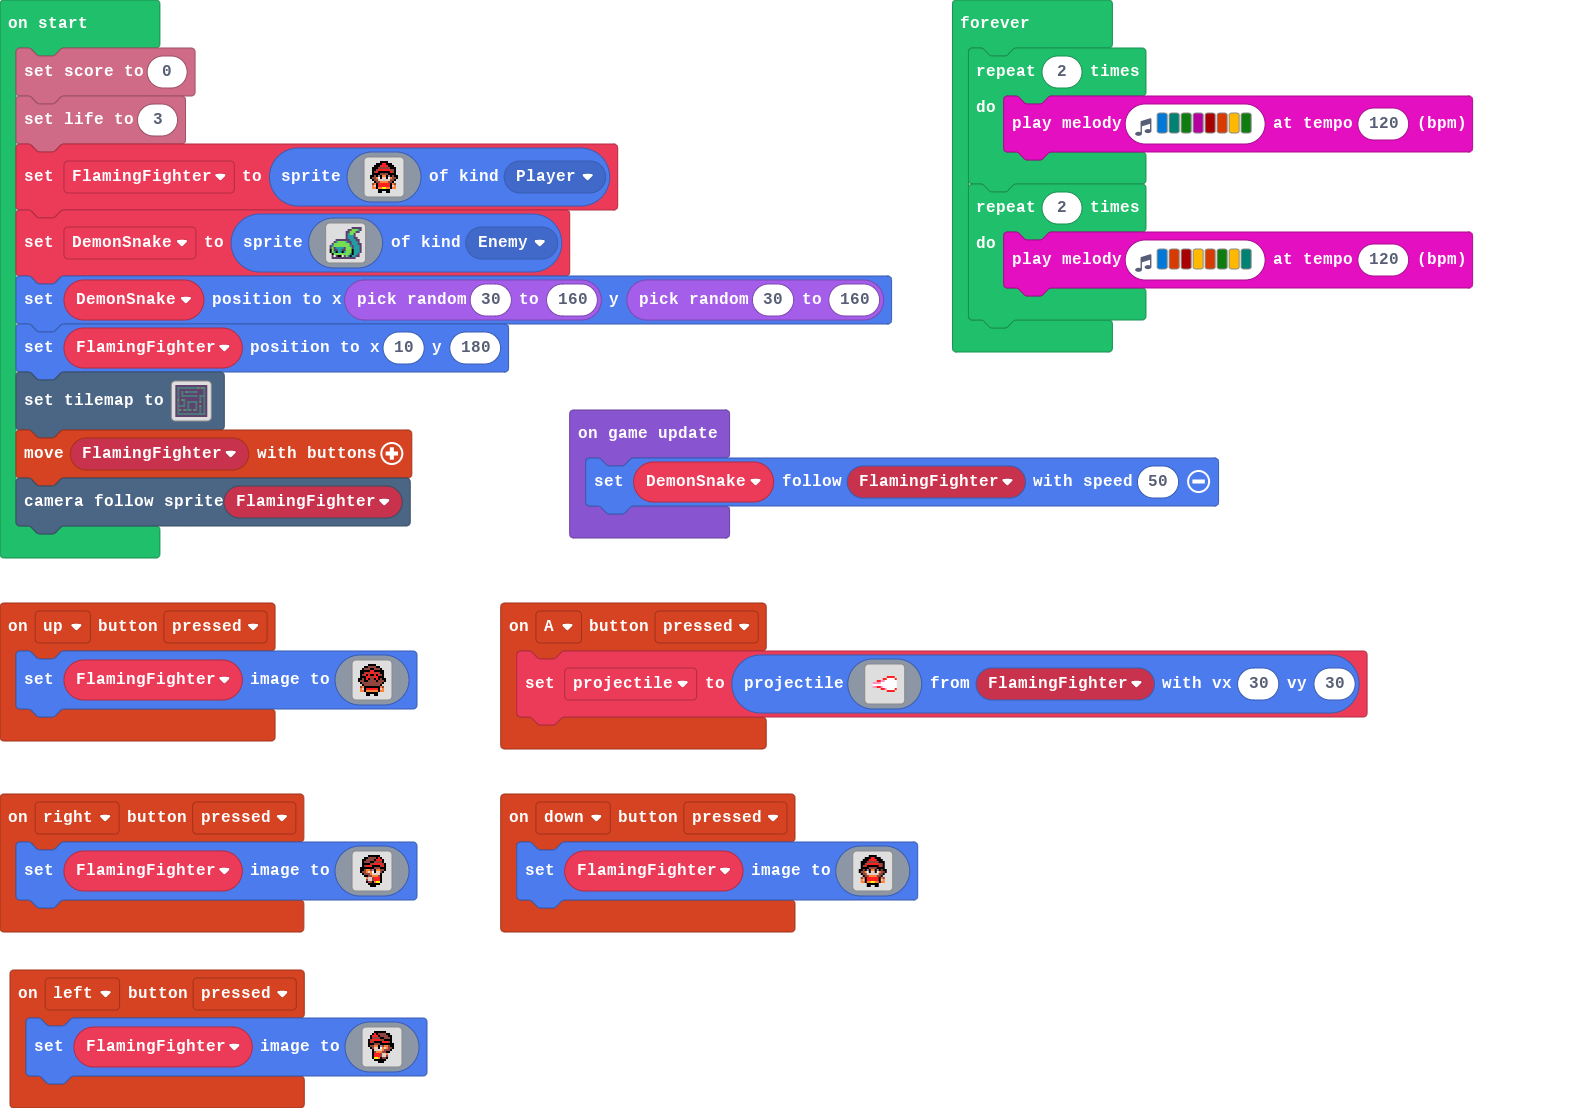
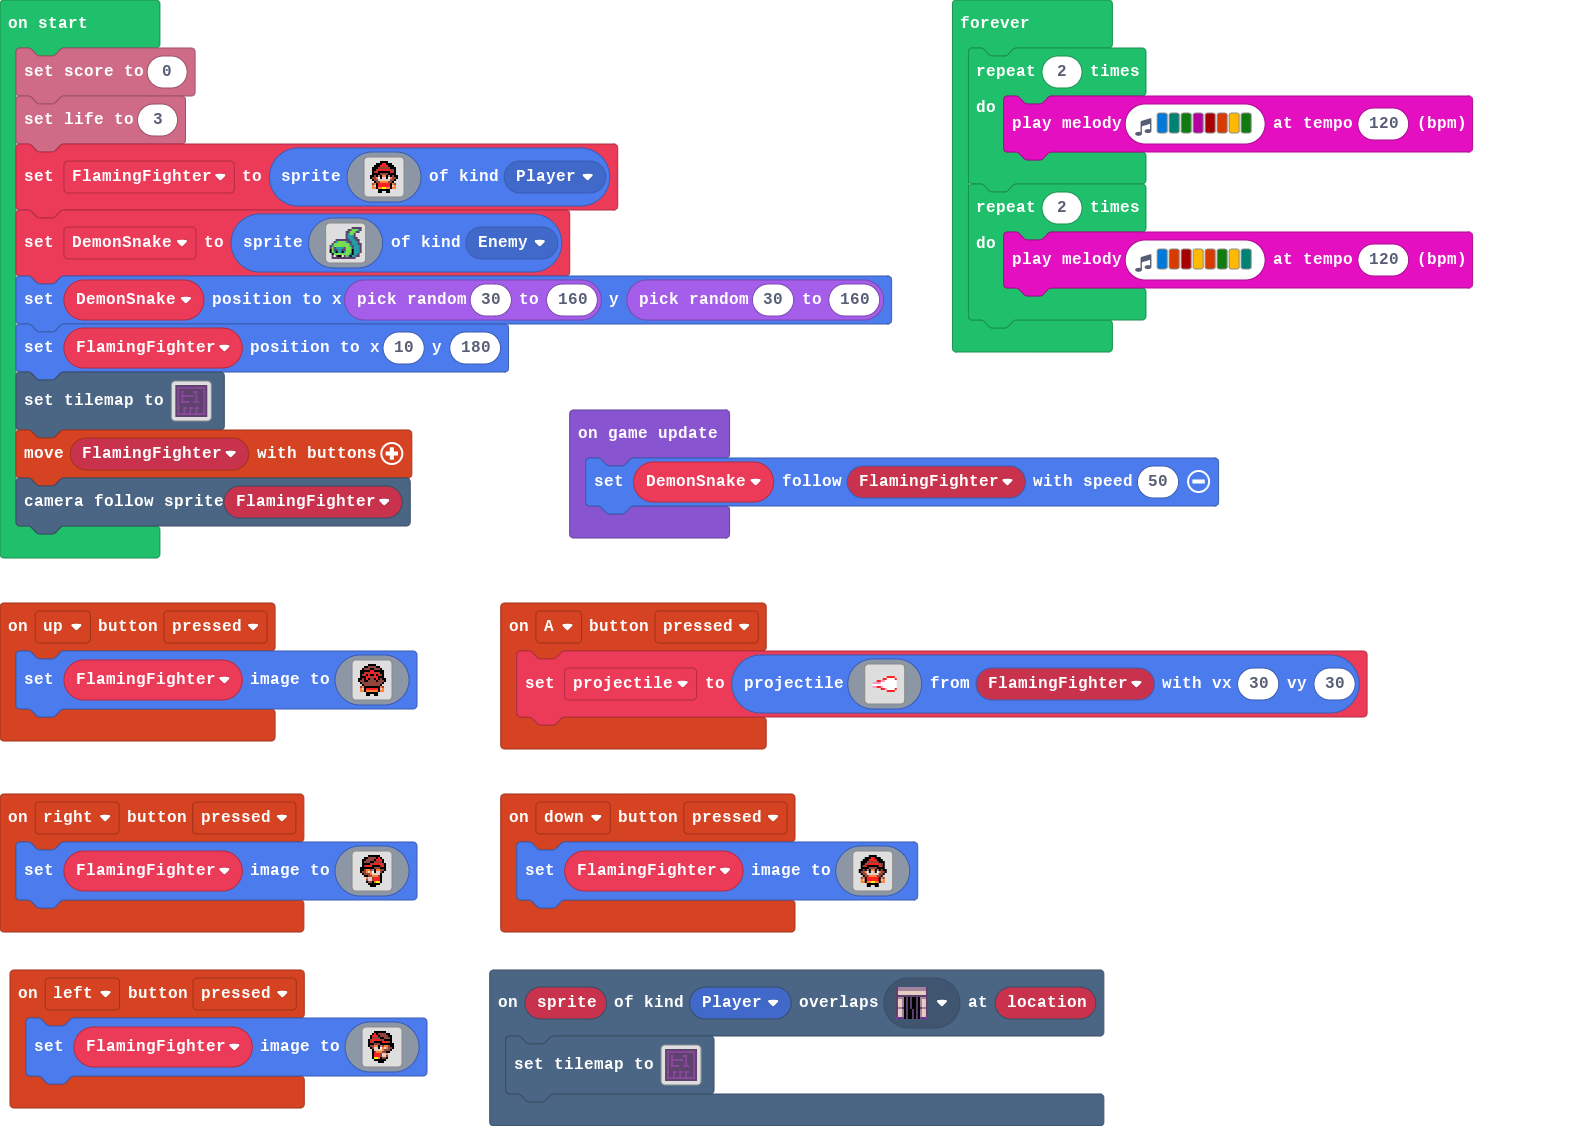
Update main.blocks, main.ts, tilemap.g.jres, tilemap.g.ts

diff --git a/tilemap.g.ts b/tilemap.g.ts
@@ -5,25 +5,44 @@ namespace myTiles {
 
     helpers._registerFactory("tilemap", function(name: string) {
         switch(helpers.stringTrim(name)) {
-            case "Level 1":
[1 lines of base64/hex data omitted]
+            case "level2":
+            case "level2":return tiles.createTilemap(hex`1000100000000000000000000000000000000000000000000000000000000000000000000000000000000000000000000000000000000000000000000000000000000000000000000000000000000000000000000000000000000000000000000000000000000000000000000000000000000000000000000000000000000000000000000000000000000000000000000000000000000000000000000000000000000000000000000000000000000000000000000000000000000000000000000000000000000000000000000000000000000000000000000000000000000000000000000000000000000000000000000000000000000000000000000000000000000000`, img`
+. . . . . . . . . . . . . . . . 
+. . . . . . . . . . . . . . . . 
+. . . . . . . . . . . . . . . . 
+. . . . . . . . . . . . . . . . 
+. . . . . . . . . . . . . . . . 
+. . . . . . . . . . . . . . . . 
+. . . . . . . . . . . . . . . . 
+. . . . . . . . . . . . . . . . 
+. . . . . . . . . . . . . . . . 
+. . . . . . . . . . . . . . . . 
+. . . . . . . . . . . . . . . . 
+. . . . . . . . . . . . . . . . 
+. . . . . . . . . . . . . . . . 
+. . . . . . . . . . . . . . . . 
+. . . . . . . . . . . . . . . . 
+. . . . . . . . . . . . . . . . 
+`, [myTiles.transparency16], TileScale.Sixteen);
+            case "Level 2":
[1 lines of base64/hex data omitted]
 . . . . . . . . . . . . . . . . 
 . 2 2 2 2 2 2 2 2 2 2 . . 2 2 . 
 . 2 . . . . . . . . . . . . 2 . 
-. 2 . 2 . . 2 2 2 2 2 . . . 2 . 
-. 2 . 2 . . . . . . . . . . 2 . 
-. 2 . 2 2 2 2 2 2 2 . . 2 2 2 . 
-. 2 . . . . . . . . . . 2 . 2 . 
-. 2 . . 2 . . . . . . . 2 . 2 . 
-. 2 . . 2 . 2 2 2 2 2 . . . 2 . 
-. 2 . . 2 . 2 . . . 2 . . . 2 . 
-. . 2 2 2 . 2 . . . 2 . 2 . 2 . 
-. . . . . . 2 . . . 2 . 2 . 2 . 
-. 2 2 . . 2 2 2 . . 2 . 2 . 2 . 
-. 2 . . . . . . . . . . 2 . 2 . 
+. 2 . 2 . . . . . 2 2 . . . 2 . 
+. 2 . 2 . . . . . . 2 . . . 2 . 
+. 2 . 2 2 2 2 2 . . 2 . . . 2 . 
+. 2 . 2 . . . . . . 2 . . . 2 . 
+. 2 . 2 . . . . . . 2 . . . 2 . 
+. 2 . 2 2 2 2 . . 2 2 2 . . 2 . 
+. 2 . . . . . . . . . . . . 2 . 
+. . . . . . . . . . . . . . 2 . 
+. . . . 2 . . 2 . . 2 2 . . 2 . 
+. 2 . . 2 . . 2 . . 2 . . . 2 . 
+. 2 . . 2 . . 2 . . 2 . . . 2 . 
 . 2 2 2 2 2 2 2 2 2 2 2 2 2 2 . 
 . . . . . . . . . . . . . . . . 
-`, [myTiles.transparency16,sprites.dungeon.darkGroundNorthEast1,sprites.dungeon.greenOuterNorthWest,sprites.dungeon.greenOuterNorth0,sprites.dungeon.greenOuterNorthEast,sprites.dungeon.greenOuterEast0,sprites.dungeon.greenOuterSouthWest,sprites.dungeon.greenOuterSouth1,sprites.dungeon.greenOuterSouthEast,sprites.dungeon.greenOuterWest0,sprites.dungeon.doorClosedWest,sprites.dungeon.greenOuterNorth2,sprites.dungeon.greenOuterWest2,sprites.dungeon.doorClosedNorth], TileScale.Sixteen);
+`, [myTiles.transparency16,sprites.dungeon.darkGroundNorthEast1,sprites.dungeon.doorClosedWest,sprites.dungeon.doorClosedNorth,sprites.dungeon.purpleOuterNorthEast,sprites.dungeon.purpleOuterNorthWest,sprites.dungeon.purpleOuterWest0,sprites.dungeon.purpleOuterNorth0,sprites.dungeon.purpleOuterEast1,sprites.dungeon.purpleOuterSouth1,sprites.dungeon.purpleOuterSouthWest,sprites.dungeon.purpleOuterSouthEast], TileScale.Sixteen);
         }
         return null;
     })

diff --git a/main.ts b/main.ts
@@ -7,6 +7,9 @@ controller.A.onEvent(ControllerButtonEvent.Pressed, function () {
 controller.left.onEvent(ControllerButtonEvent.Pressed, function () {
     FlamingFighter.setImage(assets.image`Flaming Fighter - facing left`)
 })
+scene.onOverlapTile(SpriteKind.Player, sprites.dungeon.doorClosedNorth, function (sprite, location) {
+    tiles.setTilemap(tilemap`Level 2`)
+})
 controller.right.onEvent(ControllerButtonEvent.Pressed, function () {
     FlamingFighter.setImage(assets.image`Flaming Fighter - facing right`)
 })
@@ -21,7 +24,7 @@ FlamingFighter = sprites.create(assets.image`Flaming Fighter`, SpriteKind.Player
 let DemonSnake = sprites.create(assets.image`Demon Snake`, SpriteKind.Enemy)
 DemonSnake.setPosition(randint(30, 160), randint(30, 160))
 FlamingFighter.setPosition(10, 180)
-tiles.setTilemap(tilemap`Level 1`)
+tiles.setTilemap(tilemap`Level 2`)
 controller.moveSprite(FlamingFighter)
 scene.cameraFollowSprite(FlamingFighter)
 game.onUpdate(function () {
